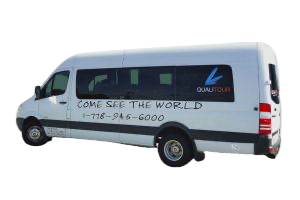
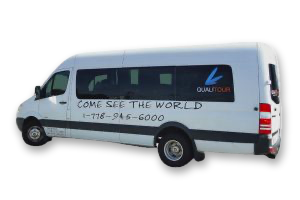
Fleet cards: add a soft shadow to the 12- and 16-seat van cutouts, like the Sienna photo
scripts/add-soft-shadow.py applies the same shadow to future photos.

Changed region(s): [[0.03, 0.27, 0.96, 0.87]]

diff --git a/scripts/add-soft-shadow.py b/scripts/add-soft-shadow.py
@@ -1,0 +1,28 @@
+#!/usr/bin/env python3
+"""Add a soft drop shadow under a transparent cutout (vehicle photos on the Private Transfers page).
+
+Run after scripts/remove-background.swift so every vehicle has the same light shadow as the Sienna photo:
+    python3 scripts/add-soft-shadow.py van.png van-shadow.png
+Needs Pillow. The shadow is the silhouette moved 2px right and 5px down, blurred (4px) at 38% black, so leave a few pixels of
+transparent margin under the vehicle.
+"""
+import sys
+from PIL import Image, ImageFilter
+
+OFFSET, BLUR, OPACITY = (2, 5), 4, 0.38
+
+
+def add_shadow(source, target):
+    image = Image.open(source).convert('RGBA')
+    shadow_mask = Image.new('L', image.size, 0)
+    shadow_mask.paste(image.getchannel('A'), OFFSET)
+    shadow_mask = shadow_mask.filter(ImageFilter.GaussianBlur(BLUR)).point(lambda value: int(value * OPACITY))
+    shadow = Image.new('RGBA', image.size, (0, 0, 0, 0))
+    shadow.putalpha(shadow_mask)
+    Image.alpha_composite(shadow, image).save(target)
+
+
+if __name__ == '__main__':
+    if len(sys.argv) != 3:
+        sys.exit(__doc__)
+    add_shadow(sys.argv[1], sys.argv[2])
